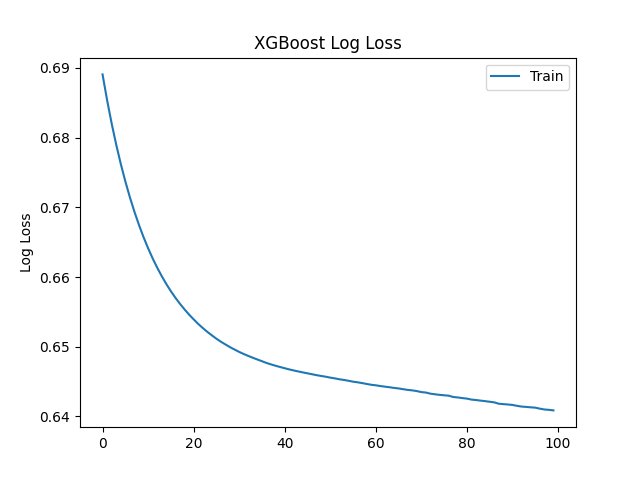
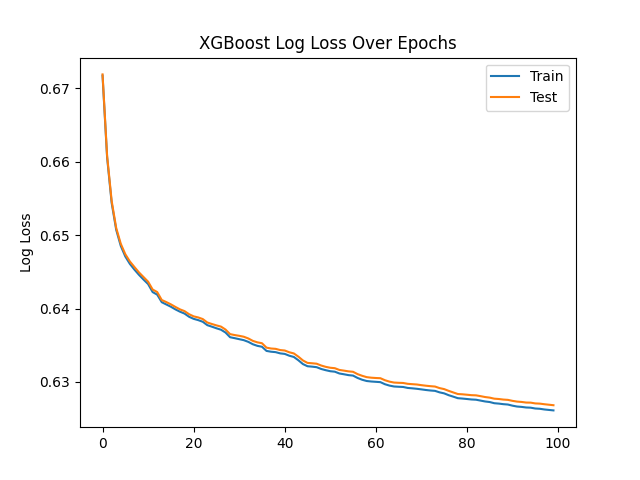
final version

diff --git a/CS6220DataMining/models/xgboost_final.py b/CS6220DataMining/models/xgboost_final.py
@@ -1,0 +1,67 @@
+import pandas as pd
+import xgboost as xgb
+from sklearn.model_selection import train_test_split
+from sklearn.metrics import accuracy_score, roc_auc_score, precision_score, recall_score, f1_score
+import matplotlib.pyplot as plt
+
+# Load the data
+data = pd.read_csv('dataset_final_downsample.csv')
+
+# Convert 'p_recall' to binary if it's not already
+data['p_recall'] = (data['p_recall'] > 0.5).astype(int)
+
+# Prepare features and target
+features = ['session_seen_capped', 'delta_capped', 'pca_1', 'learning_language_fr',
+            'history_seen', 'pca_9', 'history_correct', 'pca_13', 'pca_15', 'pca_17',
+            'learning_language_it', 'ui_language_es', 'pca_12', 'pca_14', 'pca_7',
+            'pca_5', 'pca_18', 'pca_3', 'pca_0', 'pca_4', 'pca_16', 'pca_10', 'pca_2',
+            'pca_19', 'pca_8', 'ui_language_it', 'pca_11', 'pca_6', 'hour_of_day',
+            'learning_language_es', 'learning_language_en', 'learning_language_pt']
+X = data[features]
+y = data['p_recall']
+
+# Splitting the dataset into training and testing sets
+X_train, X_test, y_train, y_test = train_test_split(X, y, test_size=0.2, random_state=42)  # 80% training and 20% testing
+
+# Define and fit the model
+model = xgb.XGBClassifier(objective='binary:logistic', n_estimators=100, max_depth=3)
+eval_set = [(X_train, y_train), (X_test, y_test)]
+model.fit(X_train, y_train, eval_metric="logloss", eval_set=eval_set, verbose=True)
+
+# Accessing the training and validation loss data
+results = model.evals_result()
+epochs = len(results['validation_0']['logloss'])
+x_axis = range(0, epochs)
+
+# Plot log loss
+fig, ax = plt.subplots()
+ax.plot(x_axis, results['validation_0']['logloss'], label='Train')
+ax.plot(x_axis, results['validation_1']['logloss'], label='Test')
+ax.legend()
+
+plt.ylabel('Log Loss')
+plt.title('XGBoost Log Loss Over Epochs')
+plt.savefig('xgboost_loss_curve.png')  # Save the figure
+plt.show()
+
+# Make predictions
+predictions = model.predict(X_test)
+probs = model.predict_proba(X_test)[:, 1]  # probabilities for the positive class
+
+# Calculate metrics
+accuracy = accuracy_score(y_test, predictions)
+roc_auc = roc_auc_score(y_test, probs)
+precision = precision_score(y_test, predictions)
+recall = recall_score(y_test, predictions)
+f1 = f1_score(y_test, predictions)
+
+# Save the results to a text file
+results_path = 'xgboost_classification_results_v2.txt'
+with open(results_path, 'w') as file:
+    file.write(f"Accuracy: {accuracy}\n")
+    file.write(f"Area Under ROC: {roc_auc}\n")
+    file.write(f"Precision: {precision}\n")
+    file.write(f"Recall: {recall}\n")
+    file.write(f"F1 Score: {f1}\n")
+
+print(f"Results saved to {results_path}")

diff --git a/CS6220DataMining/models/logistic_crossvalidation.py b/CS6220DataMining/models/logistic_crossvalidation.py
@@ -39,17 +39,20 @@ paramGrid = ParamGridBuilder() \
     .addGrid(lr.regParam, [0.01, 0.05, 0.1])  # Test different strengths of regularization
     .build()
 
+# Split the data into training and testing sets
+trainData, testData = df.randomSplit([0.8, 0.2], seed=42)
+
 # Set up the CrossValidator
 cv = CrossValidator(estimator=pipeline,
                     estimatorParamMaps=paramGrid,
                     evaluator=BinaryClassificationEvaluator(labelCol="label"),
                     numFolds=5)  # Use 5-fold cross-validation
 
-# Fit the model using CrossValidator
-cvModel = cv.fit(df)
+# Fit the model using CrossValidator on the training data
+cvModel = cv.fit(trainData)
 
-# Make predictions on the entire dataset using the best model found
-predictions = cvModel.bestModel.transform(df)
+# Make predictions on the test set using the best model found
+predictions = cvModel.bestModel.transform(testData)
 
 # Evaluate the best model
 evaluator = BinaryClassificationEvaluator(labelCol="label", metricName="areaUnderROC")

diff --git a/CS6220DataMining/README.md b/CS6220DataMining/README.md
@@ -1,3 +1,6 @@
+Original DataSet
+https://www.kaggle.com/datasets/aravinii/duolingo-spaced-repetition-data/code
+
 Preprocessing Steps
 Step 1: Timestamp Conversion
 Script: datetime_conversion.py
